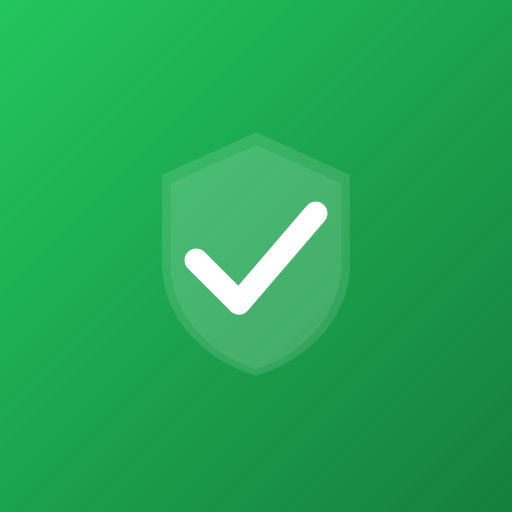
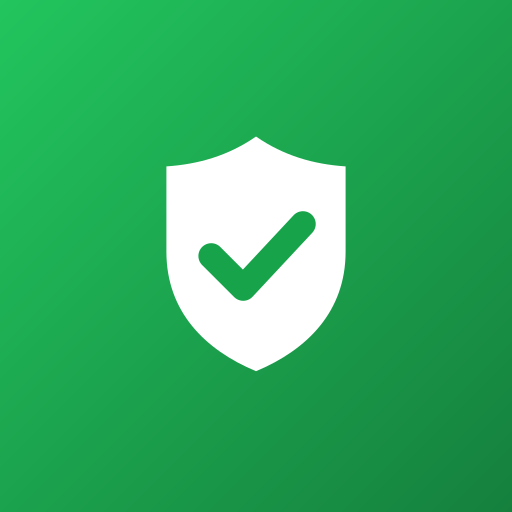
Nieuw app-icoon: gestroomlijnd groen schild met vinkje
Claude-Session: https://claude.ai/code/session_01VJ6RDtbqf7RQKMbx6CwJSj

Changed region(s): [[0.3125, 0.25, 0.6875, 0.75]]

diff --git a/index.html b/index.html
@@ -12,9 +12,9 @@
 <meta name="mobile-web-app-capable" content="yes">
 <meta name="apple-mobile-web-app-status-bar-style" content="default">
 <meta name="apple-mobile-web-app-title" content="TaskForce X">
-<link rel="manifest" href="manifest.webmanifest">
-<link rel="icon" href="icons/icon.svg" type="image/svg+xml">
-<link rel="apple-touch-icon" href="icons/apple-touch-icon.png">
+<link rel="manifest" href="manifest.webmanifest?v=4">
+<link rel="icon" href="icons/icon.svg?v=4" type="image/svg+xml">
+<link rel="apple-touch-icon" href="icons/apple-touch-icon.png?v=4">
 <link href="https://fonts.googleapis.com/css2?family=Inter:wght@300;400;500;600;700&display=swap" rel="stylesheet">
 <style>
   :root {
@@ -218,12 +218,11 @@
 
 <header class="col">
   <div class="logo" aria-label="TaskForce X">
-    <svg width="32" height="32" viewBox="0 0 36 36" fill="none" aria-hidden="true">
-      <rect width="36" height="36" rx="9" fill="url(#lg)"/>
-      <path d="M18 7L10 10.5V18.5C10 22.9 13.5 27 18 28.5C22.5 27 26 22.9 26 18.5V10.5L18 7Z" fill="white" opacity="0.15"/>
-      <path d="M18 8.5L11 11.7V18.8C11 22.8 14.1 26.5 18 27.8C21.9 26.5 25 22.8 25 18.8V11.7L18 8.5Z" fill="white" opacity="0.1"/>
-      <polyline points="13,18 17,22 23,14" stroke="white" stroke-width="2.2" stroke-linecap="round" stroke-linejoin="round" fill="none"/>
-      <defs><linearGradient id="lg" x1="0" y1="0" x2="36" y2="36" gradientUnits="userSpaceOnUse"><stop offset="0%" stop-color="#16a34a"/><stop offset="100%" stop-color="#15803d"/></linearGradient></defs>
+    <svg width="32" height="32" viewBox="0 0 192 192" aria-hidden="true">
+      <defs><linearGradient id="lg" x1="0" y1="0" x2="192" y2="192" gradientUnits="userSpaceOnUse"><stop offset="0" stop-color="#22c55e"/><stop offset="1" stop-color="#15803d"/></linearGradient></defs>
+      <rect width="192" height="192" rx="42" fill="url(#lg)"/>
+      <path d="M96 40c13 9 27 13 42 14v40c0 28-18 46-42 56c-24-10-42-28-42-56V54c15-1 29-5 42-14z" fill="#fff"/>
+      <path d="M75 96l15 15l28-30" fill="none" stroke="#16a34a" stroke-width="12" stroke-linecap="round" stroke-linejoin="round"/>
     </svg>
     <div class="wordmark"><b>Task</b><span>Force</span><i>X</i></div>
   </div>

diff --git a/sw.js b/sw.js
@@ -1,5 +1,5 @@
 /* Service worker: offline app-shell en pushmeldingen */
-const CACHE = 'taskforcex-v3';
+const CACHE = 'taskforcex-v4';
 const SHELL = ['./', 'index.html', 'app.js', 'manifest.webmanifest', 'config.json',
   'icons/icon.svg', 'icons/icon-192.png', 'icons/icon-512.png', 'icons/apple-touch-icon.png'];
 
